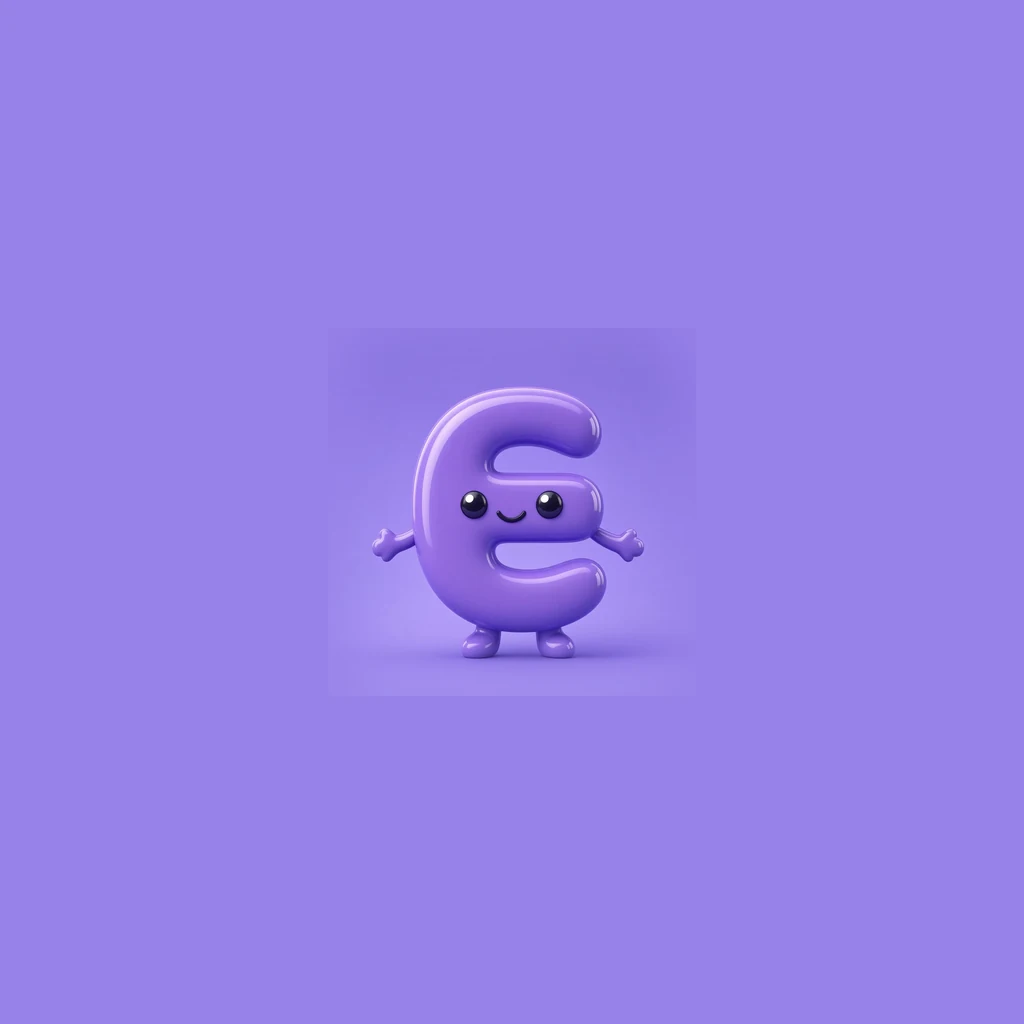
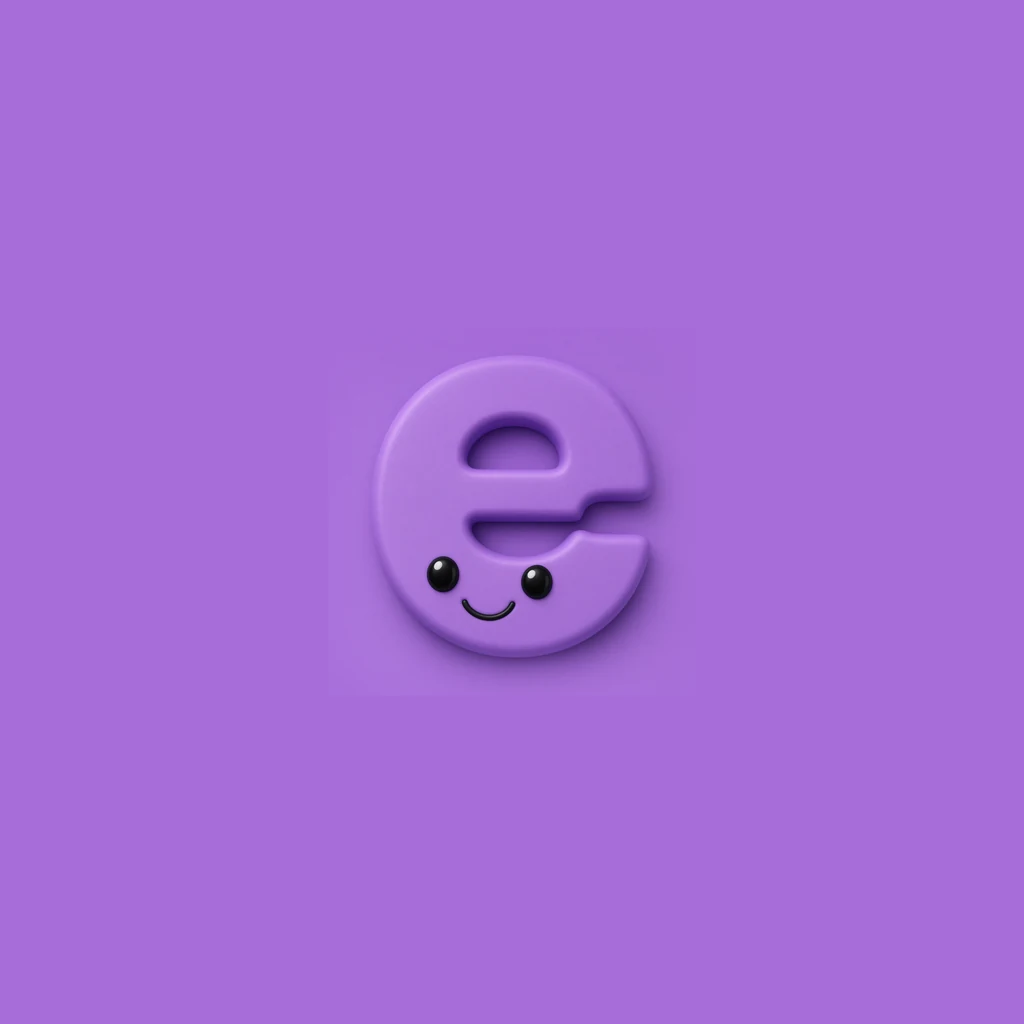
v0.151: little e is a round lowercase e, not a tiny E.

Changed region(s): [[0.3125, 0.3125, 0.6875, 0.6875]]

diff --git a/src/lib/version.ts b/src/lib/version.ts
@@ -12,7 +12,7 @@
  * Grok Publish: still remind at v0.070, v0.080… so the public link can match.
  */
 
-export const APP_VERSION = "0.150";
+export const APP_VERSION = "0.151";
 export const APP_VERSION_LABEL = `v${APP_VERSION}`;
 export const APP_SLUG = "abc-adventure";
 export const APP_DISPLAY_NAME = "ABC Adventure";

diff --git a/SESSION.md b/SESSION.md
@@ -1,6 +1,6 @@
 # Session compact — ABC Adventure
 
-**Version:** v0.150  
+**Version:** v0.151  
 **GitHub:** sh4gu4dummy-arch/abc-adventure `main`  
 **User tests in Grok live preview**, not APK, unless they ask.
 
@@ -32,6 +32,9 @@ really is done. Tap to play again (v0.129).
 | H heart | Crayon with two points | One-tip crayon; look-at-the-clip QA (not a tip-count law) |
 
 A–Z word videos exist. J–Z remade to locked sentences; A–I older unless later patched (G, H, fish, frog, etc.).
+
+## Little e (v0.151)
+True round lowercase e, not a tiny E.
 
 ## Little icons a–z (v0.150)
 All 26 little avatars. No Meet videos for d–z yet.

diff --git a/PROJECT.md b/PROJECT.md
@@ -113,7 +113,7 @@ npm run build:apk      # only when asked
 
 ## Versioning & downloads
 
-- **Current version:** `0.150` (`v0.150`) — stored in `VERSION` and `src/lib/version.ts` (keep in sync).
+- **Current version:** `0.151` (`v0.151`) — stored in `VERSION` and `src/lib/version.ts` (keep in sync).
 
 ## GitHub + Grok Publish cadence
 
